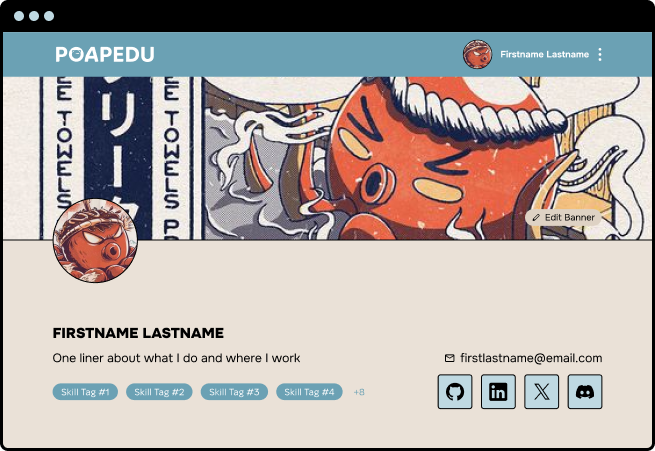
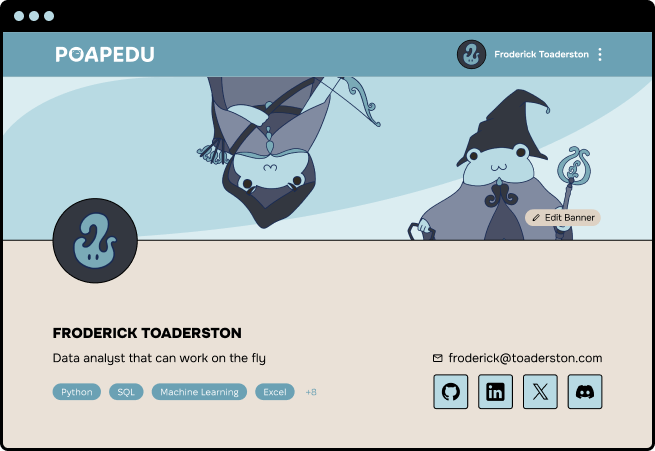
font fix using webfontloader and landing page creatives updated

diff --git a/client/src/views/LandingPage.vue b/client/src/views/LandingPage.vue
@@ -13,14 +13,14 @@
         <v-container class="py-16 mt-4">
           <v-row>
             <v-col class="mt-5" cols="6">
-              <h1 class="text-h2 font-weight-bold mb-4">
-                Flaunt what you've achieved
+              <h1 class="text-h2 font-weight-bold mb-4" style="font-weight:800;font-size:2.8rem">
+                FLAUNT WHAT YOU'VE ACHIEVED
               </h1>
               <p class="text-body-1 mb-6">
                 Consolidate all of your certs and NFT badges onto a single
                 coherent builder's profile.
               </p>
-              <v-btn color="black" dark x-large class="text-capitalize">Get your profile</v-btn
+              <v-btn color="primary" x-large class="text-capitalize">GET YOUR PROFILE</v-btn
               >
             </v-col>
             <v-col cols="6">
@@ -30,13 +30,18 @@
         </v-container>
       </v-container>
       <v-container class="py-16 mt-4">
-        <v-row class="mt-16 py-16">
-          <v-col cols="12" class="text-center">
-            <h2 class="text-h4 font-weight-bold mb-2">
-              You've completed courses on different platforms and chains<br />
+        <v-row class="mt-16 py-16 second-container">
+          <v-col cols="12" md="6">
+            <v-img aspect-ratio="16/9" alt="" title="" cover src="../assets/section1_image.png"></v-img>
+          </v-col>
+          <v-col cols="12" md="6" class="text-left">
+            <h5 class="text-h5 mt-5 font-weight-bold mb-2">
+              You've completed courses on different platforms and chains.
+            </h5>
+            <h5 class="text-h5 mt-10 font-weight-bold mb-2">
               You've got your certs and badges.
-            </h2>
-            <p class="text-h5 font-weight-light">...what's next?</p>
+            </h5>
+            <p class="text-h5 mt-10 font-weight-light text-right">...what's next?</p>
           </v-col>
         </v-row>
 
@@ -60,7 +65,7 @@
             </v-list>
           </v-col>
           <v-col cols="12" md="6">
-            <v-img aspect-ratio="16/9" cover src="../assets/createprofile_placeholder.png"></v-img>
+            <v-img aspect-ratio="16/9" alt="Craft a builder's profile with Poapedu" title="Craft a builder's profile with Poapedu" cover src="../assets/createprofile_placeholder.png"></v-img>
           </v-col>
         </v-row>
 
@@ -124,5 +129,10 @@ export default {
 <style scoped>
 .v-btn {
   text-transform: none !important;
+}
+.second-container {
+  background: #DED2C4;
+  padding: 25px;
+  border-radius: 5px;
 }
 </style>

diff --git a/client/src/main.js b/client/src/main.js
@@ -6,8 +6,9 @@ import vuetify from "./plugins/vuetify";
 import { createClient } from "@supabase/supabase-js";
 import "./scss/main.scss"
 import supabasePlugin from './plugins/supabase'
+import { loadFonts } from './plugins/webfontloader'
 
-//loadFonts();
+loadFonts();
 
 const supabase = createClient(
   process.env.VUE_APP_SUPABASE_URL,

diff --git a/client/src/plugins/webfontloader.js b/client/src/plugins/webfontloader.js
@@ -9,7 +9,7 @@ export async function loadFonts () {
 
   webFontLoader.load({
     google: {
-      families: ['Roboto:100,300,400,500,700,900&display=swap'],
+      families: ['Onest:100,300,400,500,700,900&display=swap'],
     },
   })
 }
